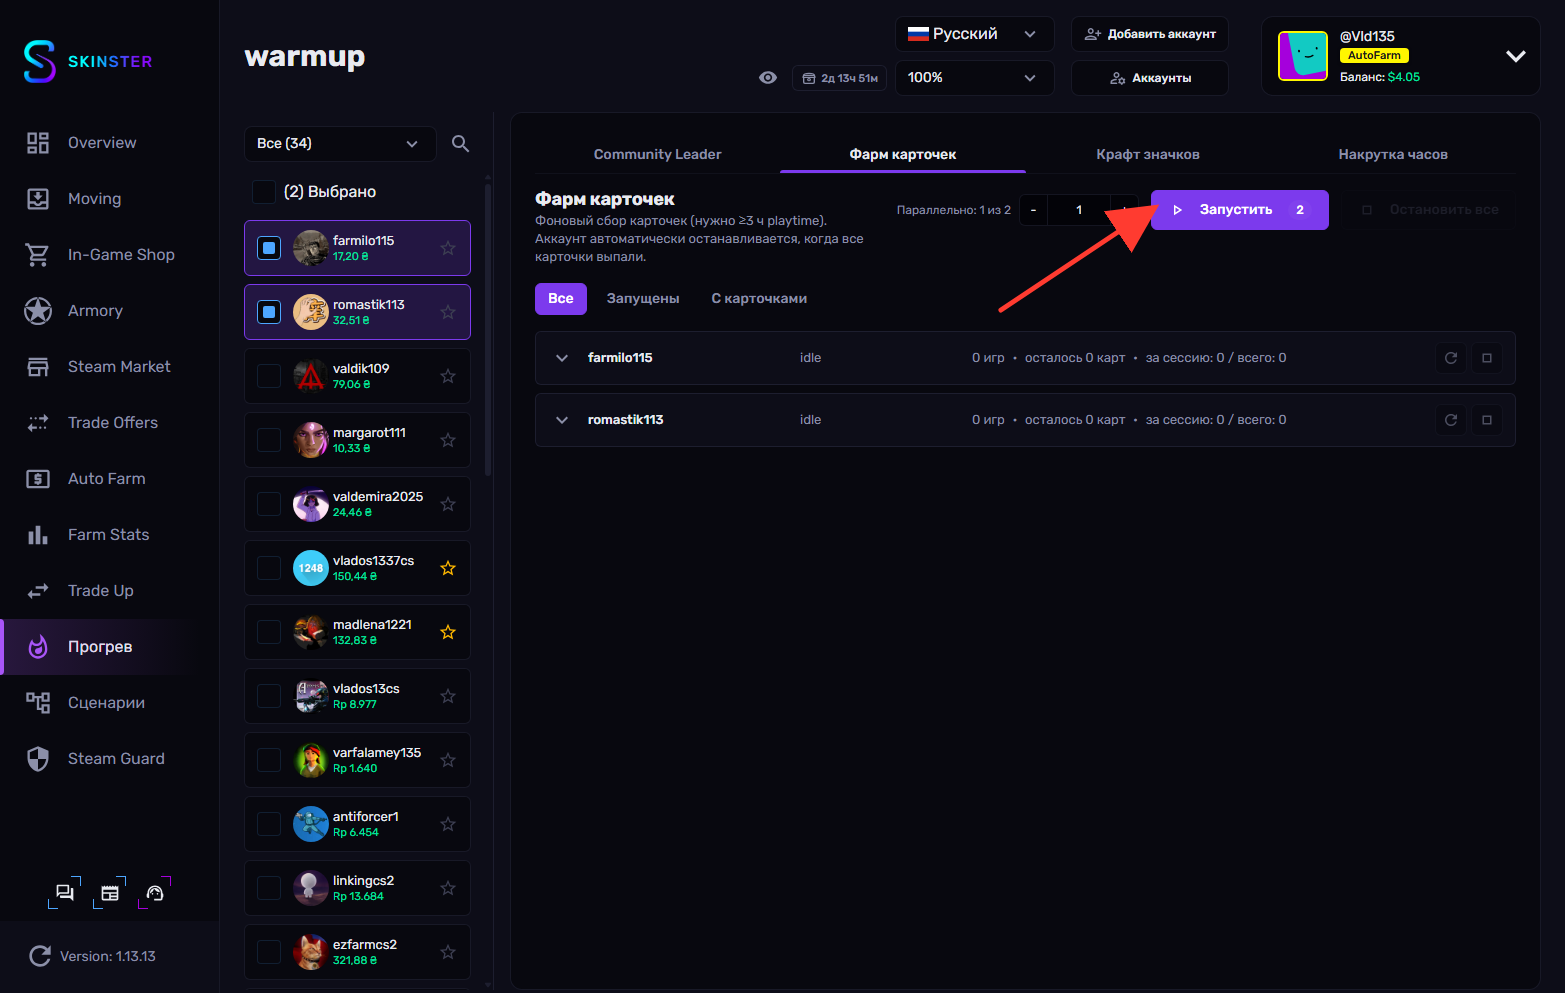
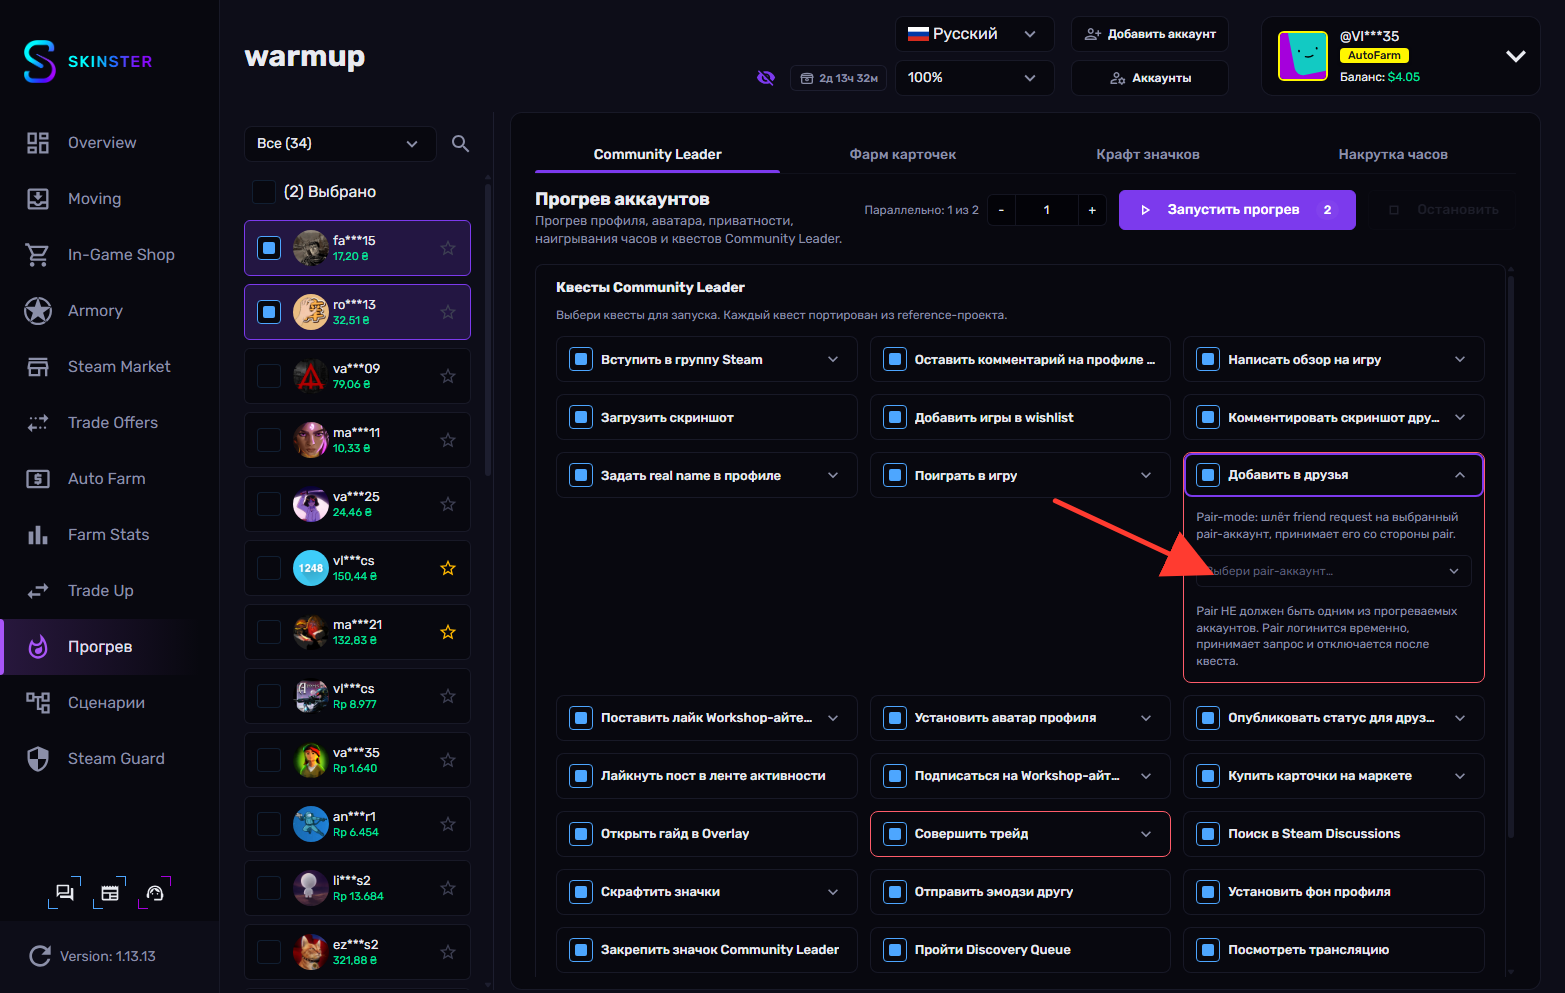
docs(warmup): mask usernames, add quest-data step, fix donors + comma App IDs
- Re-shoot all screenshots with usernames hidden (header handle + Steam
  account names masked) per the hide-usernames toggle.
- Community Leader: document that some quests require data before launch
  (pair/donor account, App ID, folder path) and add a new step + screenshot
  showing the pair-account picker for 'Добавить в друзья'.
- Крафт значков: state that donor accounts must be selected; arrow now
  points at the 'Выберите аккаунты-доноры…' selector.
- Накрутка часов: App IDs are comma-separated (730,440,570); re-shot
  step and updated text accordingly.
- Renumber manual steps (now 7) and figure links.

diff --git a/gitbook/documentation/funkcional/warmup.md b/gitbook/documentation/funkcional/warmup.md
@@ -28,34 +28,45 @@ icon: fire
 
 <figure><img src="../.gitbook/assets/warmup-step-2.png" alt=""><figcaption></figcaption></figure>
 
-**3.** На вкладке **Community Leader** выбираем нужные квесты и нажимаем **Запустить прогрев**
+**3.** На вкладке **Community Leader** отмечаем нужные квесты, а затем нажимаем **Запустить прогрев**
 
 <figure><img src="../.gitbook/assets/warmup-step-3.png" alt=""><figcaption></figcaption></figure>
 
-{% hint style="info" %}
-Каждый квест можно развернуть и настроить дополнительно — например, задать свои группы Steam, аватар, имена или App ID игры. Часть квестов тратит баланс кошелька (покупка карточек на маркете), такие отмечены предупреждением.
+{% hint style="warning" %}
+Часть квестов перед запуском нужно **дополнительно настроить** — для них обязательно заполнить данные, иначе квест будет подсвечен красной рамкой и не выполнится:
+
+* **Добавить в друзья** — выбрать **pair-аккаунт** (с ним подружится прогреваемый аккаунт).
+* **Совершить трейд** — выбрать **donor-аккаунт**, который передаст предмет.
+* **Скрафтить значки** (в режиме «С аккаунта-донора») — выбрать **donor-аккаунт** и указать **App ID** игры.
+* **Установить аватар профиля** (в режиме «Загрузить из локальной папки») — указать **путь к папке** с картинками.
+
+Остальные квесты можно развернуть и настроить по желанию — например, задать свои группы Steam, имена, статусы или App ID игры. Квесты, которые тратят баланс кошелька (покупка карточек на маркете), отмечены предупреждением.
 {% endhint %}
 
-**4.** На вкладке **Фарм карточек** запускаем фоновый сбор карточек кнопкой **Запустить**
+**4.** Чтобы заполнить данные, разворачиваем нужный квест и указываем требуемое значение — например, для квеста **Добавить в друзья** выбираем **pair-аккаунт**
 
 <figure><img src="../.gitbook/assets/warmup-step-4.png" alt=""><figcaption></figcaption></figure>
+
+**5.** На вкладке **Фарм карточек** запускаем фоновый сбор карточек кнопкой **Запустить**
+
+<figure><img src="../.gitbook/assets/warmup-step-5.png" alt=""><figcaption></figcaption></figure>
 
 {% hint style="info" %}
 Для выпадения карточек на аккаунте нужно не менее `3 ч` наигранного времени. Аккаунт автоматически останавливается, когда все карточки выпали. Фильтры **Все** / **Запущены** / **С карточками** помогают отслеживать прогресс.
 {% endhint %}
 
-**5.** На вкладке **Крафт значков** выбираем receiver-аккаунт в левой панели и аккаунты-доноры, затем нажимаем **Сканировать**
-
-<figure><img src="../.gitbook/assets/warmup-step-5.png" alt=""><figcaption></figcaption></figure>
-
-{% hint style="info" %}
-**Receiver** получает карточки и крафтит значки, а **доноры** передают свои карточки через трейд-офферы. После сканирования выбираем, какие значки крафтить, и запускаем кнопкой **Запустить**.
-{% endhint %}
-
-**6.** На вкладке **Накрутка часов** вводим App ID игр через пробел или запятую — например `730 440 570` — и нажимаем **Запустить**
+**6.** На вкладке **Крафт значков** выбираем receiver-аккаунт в левой панели, а затем обязательно выбираем **аккаунты-доноры** в поле **Выберите аккаунты-доноры…**
 
 <figure><img src="../.gitbook/assets/warmup-step-6.png" alt=""><figcaption></figcaption></figure>
 
 {% hint style="info" %}
-Steam позволяет накручивать часы максимум в `32` играх одновременно. Опции **Остановить по таймеру** и **Делать паузы** позволяют ограничить время сессии и имитировать естественную активность.
+**Receiver** получает карточки и крафтит значки, а **доноры** передают свои карточки через трейд-офферы. Без выбранных доноров кнопка **Сканировать** недоступна. После сканирования выбираем, какие значки крафтить, и запускаем кнопкой **Запустить**.
+{% endhint %}
+
+**7.** На вкладке **Накрутка часов** вводим App ID игр **через запятую** — например `730,440,570` — и нажимаем **Запустить**
+
+<figure><img src="../.gitbook/assets/warmup-step-7.png" alt=""><figcaption></figcaption></figure>
+
+{% hint style="info" %}
+Несколько App ID разделяются **запятой** (`730,440,570`). Steam позволяет накручивать часы максимум в `32` играх одновременно. Опции **Остановить по таймеру** и **Делать паузы** позволяют ограничить время сессии и имитировать естественную активность.
 {% endhint %}
